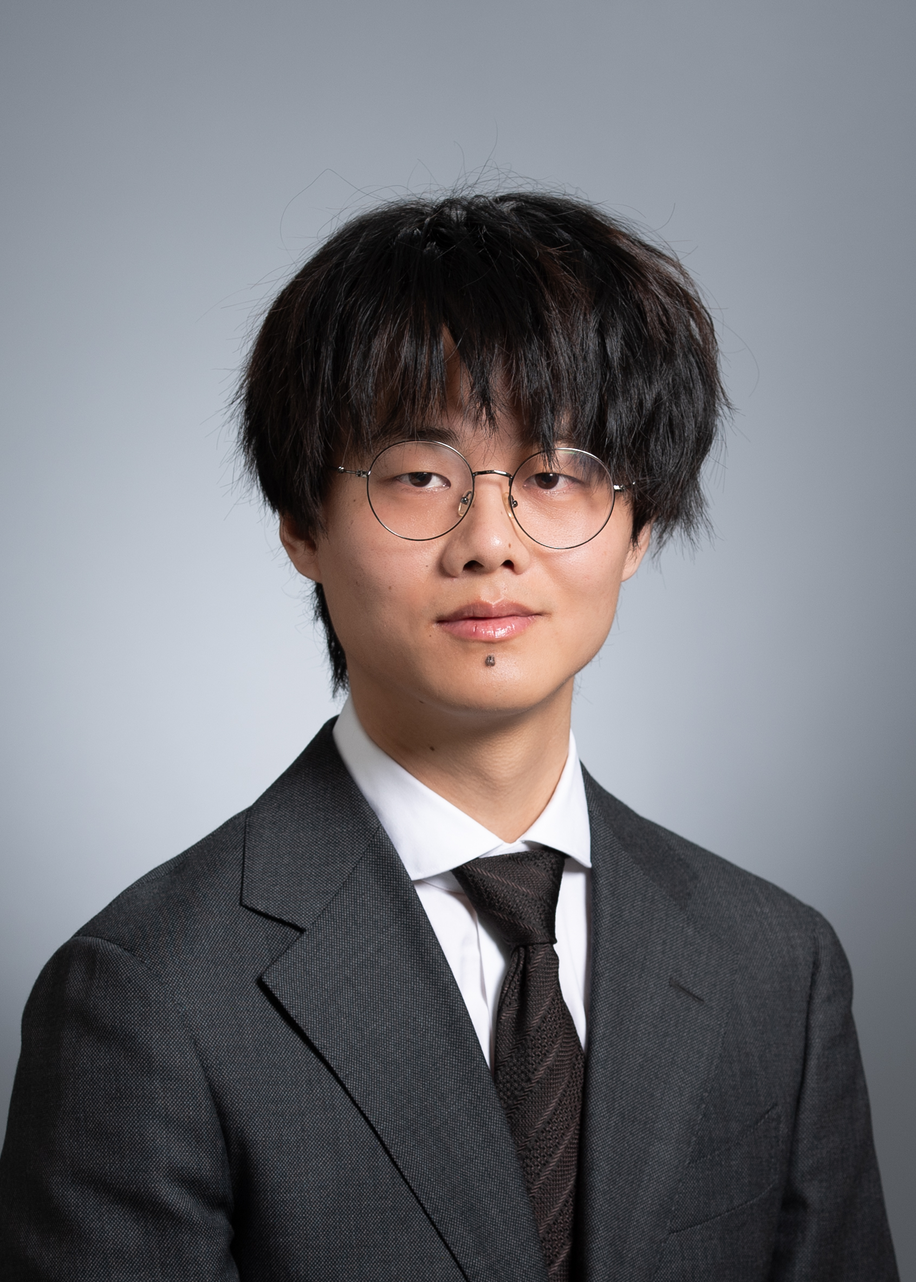
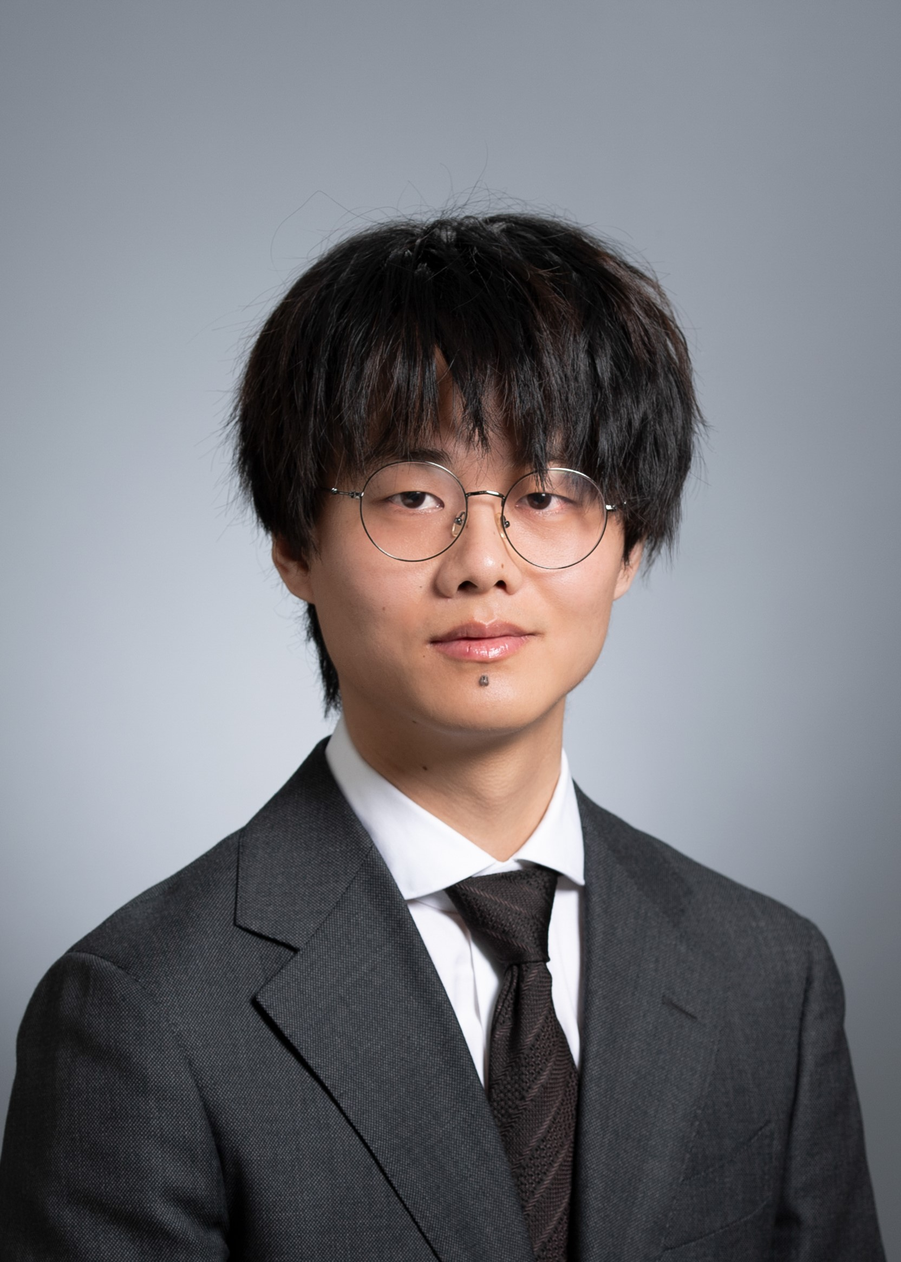
update profile pic & set up navigation panel

diff --git a/_pages/dropdown.md b/_pages/dropdown.md
@@ -1,8 +1,8 @@
 ---
 layout: page
-title: submenus
+title: research
 nav: true
-nav_order: 8
+nav_order: 2
 dropdown: true
 children:
   - title: publications
@@ -11,6 +11,6 @@ children:
   - title: projects
     permalink: /projects/
   - title: divider
-  - title: blog
-    permalink: /blog/
+  - title: software
+    permalink: /repositories/
 ---

diff --git a/_pages/about.md b/_pages/about.md
@@ -6,7 +6,7 @@ subtitle: <b>Assistant Professor</b>. Civil, Construction and Environmental Engi
 
 profile:
   align: right
-  image: prof_pic.jpg
+  image: prof_pic_small.jpg
   image_circular: false # crops the image to make it circular
   more_info: >
     <p>Hoehn Building, Room 210C</p>

diff --git a/_pages/publications.md b/_pages/publications.md
@@ -3,7 +3,7 @@ layout: page
 permalink: /publications/
 title: publications
 description: My publications. A full list can also be found on my <a href='https://scholar.google.com/citations?user=QhhRMTUAAAAJ&hl=en'><b>Google Scholar page</b></a>.
-nav: true
+nav: false
 nav_order: 2
 ---
 

diff --git a/_pages/repositories.md b/_pages/repositories.md
@@ -3,7 +3,7 @@ layout: page
 permalink: /repositories/
 title: repositories
 description: The major repositories of <a href='https://github.com/jialeishen'><b>my GitHub</b></a>.
-nav: true
+nav: false
 nav_order: 4
 ---
 

diff --git a/_pages/projects.md b/_pages/projects.md
@@ -3,7 +3,7 @@ layout: page
 title: projects
 permalink: /projects/
 description: A growing collection of your cool projects.
-nav: true
+nav: false
 nav_order: 3
 display_categories: [work, fun]
 horizontal: false

diff --git a/_pages/teaching.md b/_pages/teaching.md
@@ -4,7 +4,7 @@ permalink: /teaching/
 title: teaching
 description: My teaching activities.
 nav: true
-nav_order: 5
+nav_order: 3
 ---
 
 ## University of Alabama at Birmingham

diff --git a/_pages/profiles.md b/_pages/profiles.md
@@ -3,7 +3,7 @@ layout: profiles
 permalink: /people/
 title: people
 description: members of the lab or group
-nav: true
+nav: false
 nav_order: 7
 
 profiles:

diff --git a/_pages/blog.md b/_pages/blog.md
@@ -2,7 +2,7 @@
 layout: default
 permalink: /blog/
 title: blog
-nav: true
+nav: false
 nav_order: 1
 pagination:
   enabled: true

diff --git a/_pages/news.md b/_pages/news.md
@@ -2,6 +2,8 @@
 layout: page
 title: news
 permalink: /news/
+nav: true
+nav_order: 1
 ---
 
 {% include news.liquid %}
